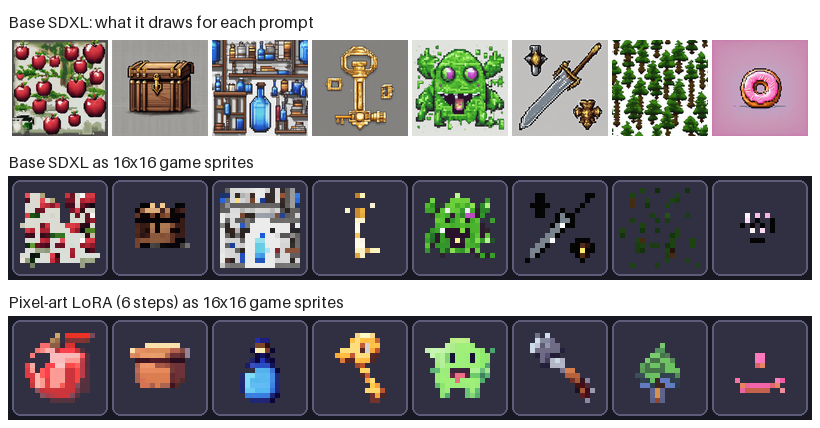
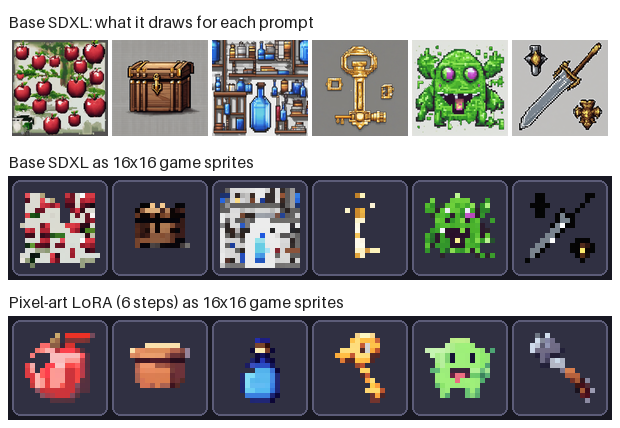
Updated showcase.py

diff --git a/scripts/make_showcase.py b/scripts/make_showcase.py
@@ -11,6 +11,7 @@ through the same two steps and shows the result:
 No GPU needed. It reads the images scripts/benchmark.py saved.
 
 Usage:  python scripts/make_showcase.py
+        python scripts/make_showcase.py --skip "an iron sword" "a pink frosted donut"
 """
 
 import argparse
@@ -117,10 +118,17 @@ def main() -> None:
     parser.add_argument("--base", default="base_30step")
     parser.add_argument("--lora", default="lora_lcm_6step_taesd")
     parser.add_argument("--out", type=Path, default=Path("outputs/benchmark/showcase.png"))
+    parser.add_argument("--skip", nargs="*", default=[], help="prompts to leave out of the image")
     args = parser.parse_args()
 
-    # One image per distinct prompt (the prompt list may contain repeats).
-    indices = [EVAL_SUBJECTS.index(s) for s in dict.fromkeys(EVAL_SUBJECTS)]
+    unknown = [s for s in args.skip if s not in EVAL_SUBJECTS]
+    if unknown:
+        parser.error(f"not in EVAL_SUBJECTS: {unknown}")
+
+    # One image per distinct prompt (the prompt list may contain repeats), minus the skipped ones.
+    # The benchmark saved its images by position in EVAL_SUBJECTS, so that list must not be
+    # edited to choose what appears here: use --skip instead.
+    indices = [EVAL_SUBJECTS.index(s) for s in dict.fromkeys(EVAL_SUBJECTS) if s not in args.skip]
 
     def load(config: str) -> list:
         return [Image.open(args.images / config / f"{i:02d}.png").convert("RGB") for i in indices]

diff --git a/pixelart/config.py b/pixelart/config.py
@@ -42,5 +42,8 @@ EVAL_SUBJECTS = [
     "a blue potion bottle",
     "a golden key",
     "a green slime monster",
+    "an iron sword",
     "a small pine tree",
+    "a pink frosted donut",
+    "a green slime monster",
 ]
